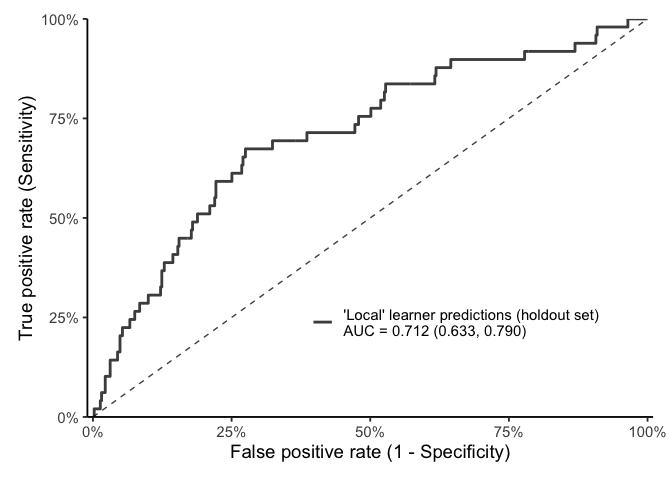
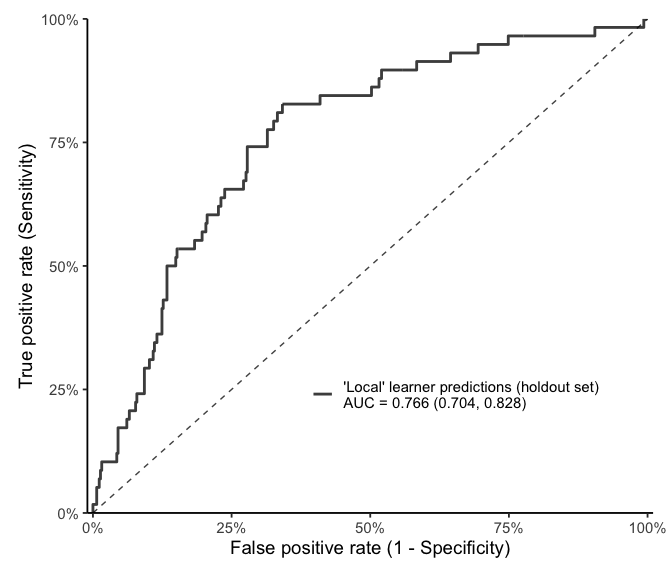
regen readme with taller plots

diff --git a/README.md b/README.md
@@ -69,7 +69,7 @@ nCVSLFeatSelFolds <- 5
 
 family <- binomial()
 
-my_seed <- 54321
+my_seed <- 98765
 n_obs <- 2000
 
 set.seed(my_seed)
@@ -130,8 +130,7 @@ predSummary %>% slice_min(cvRiskSum, with_ties = TRUE) %>% knitr::kable()
 
 | norm | kernel  | window | screener             | predictor | combo\_method | selector |   k | cvRiskSum |
 |:-----|:--------|-------:|:---------------------|:----------|:--------------|:---------|----:|----------:|
-| L1   | tricube |    0.3 | screen.corRank3.wgtd | SL.glm    | NNloglik      | cutoff.k |   3 |  131.8541 |
-| L1   | tricube |    0.3 | screen.corRank6.wgtd | SL.glm    | NNloglik      | cutoff.k |   3 |  131.8541 |
+| L2   | uniform |    0.3 | screen.corRank3.wgtd | SL.glm    | NNloglik      | cutoff.k |   6 |  134.8602 |
 
 ``` r
 # subset predictions to only those with the settings which resulted in the min cvRiskSum
@@ -225,7 +224,7 @@ as_kable_extra(local_coef, format = "pipe")
 
 | Characteristic |  OR  |  SE   |   95% CI   |
 |:---------------|:----:|:-----:|:----------:|
-| (Intercept)    | 0.02 | 2.07  | 0.00, 1.14 |
-| GCS.15         |      |       |            |
-| GCS.4\_to\_14  |      |       |            |
-| Age            | 1.00 | 0.068 | 0.88, 1.15 |
+| (Intercept)    | 0.06 | 0.968 | 0.01, 0.34 |
+| GCS.15         | 0.09 | 0.641 | 0.02, 0.30 |
+| Age            | 1.07 | 0.029 | 1.01, 1.14 |
+| PrehospOCY     | 0.60 | 0.327 | 0.30, 1.09 |
